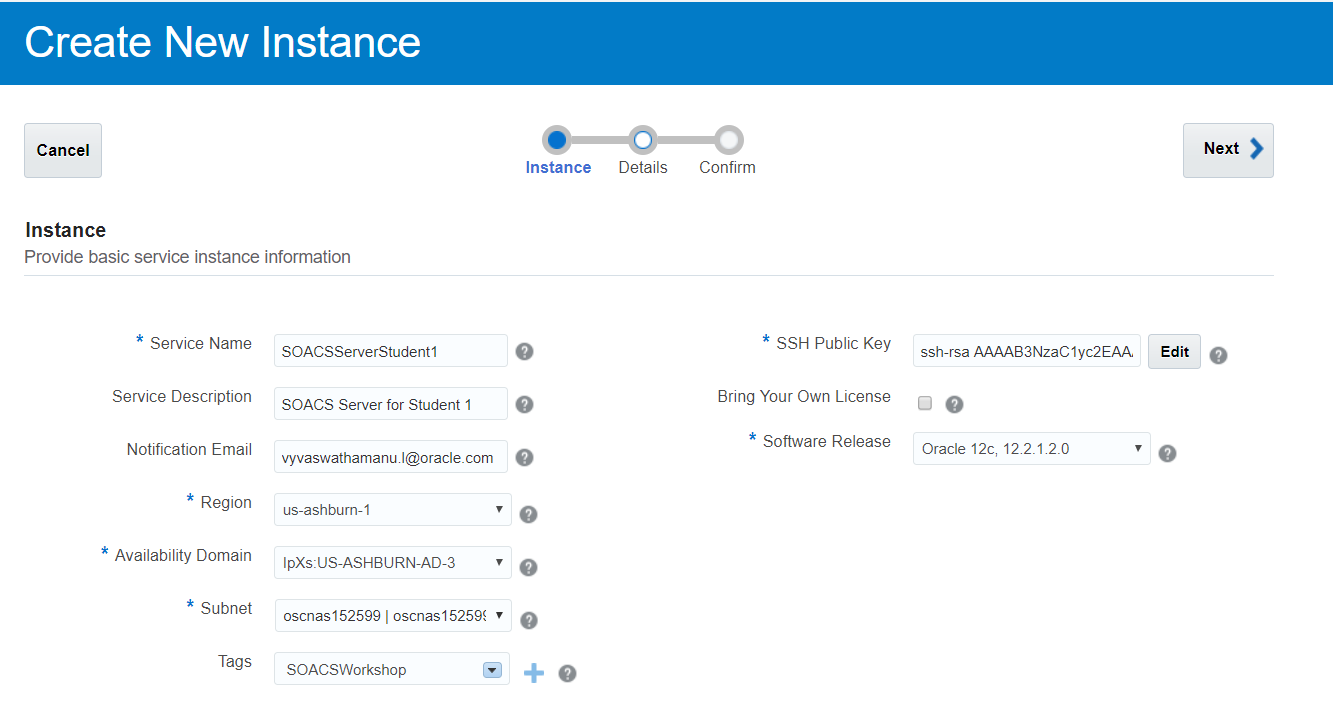
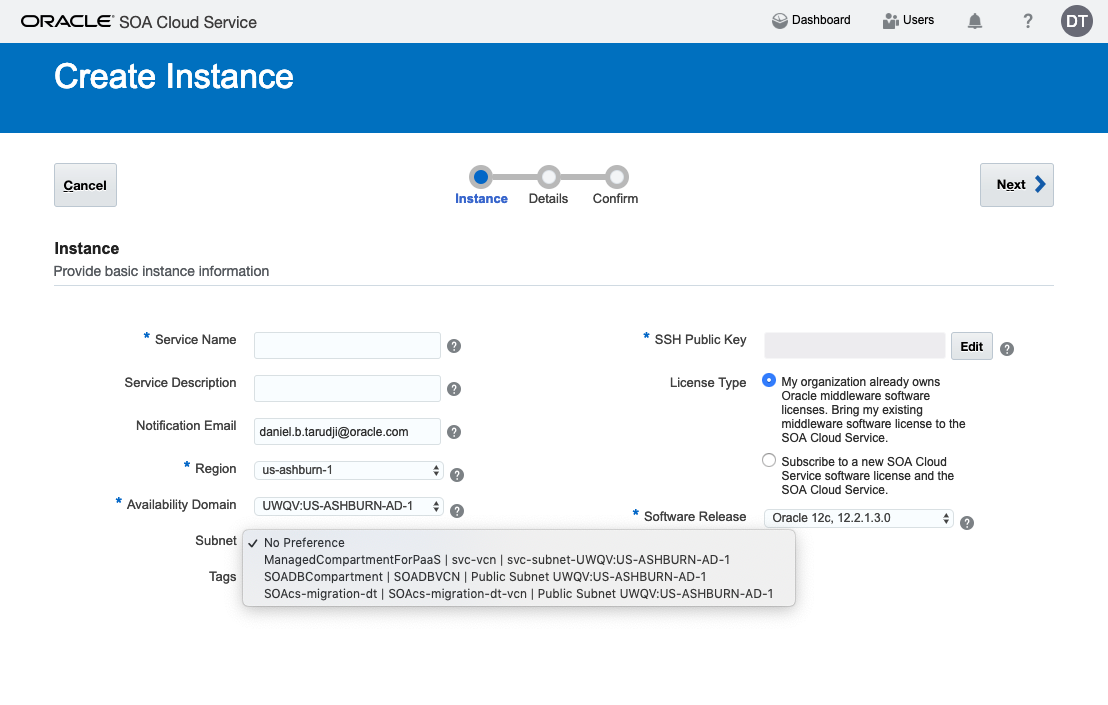
Updated pix in lab 100

diff --git a/soacs100.md b/soacs100.md
@@ -31,11 +31,11 @@ If you don't have the user name, password, and web console URL, contact your org
 
 
 
-- Custom SOA
+- Custom SOA is also presented with a button at top right corner. When you click the button, the following screen is presented
 
 
 
-    ![](images/provisioning/image033.png)
+    ![](images/provisioning/image027_002.png)
 
 
 
